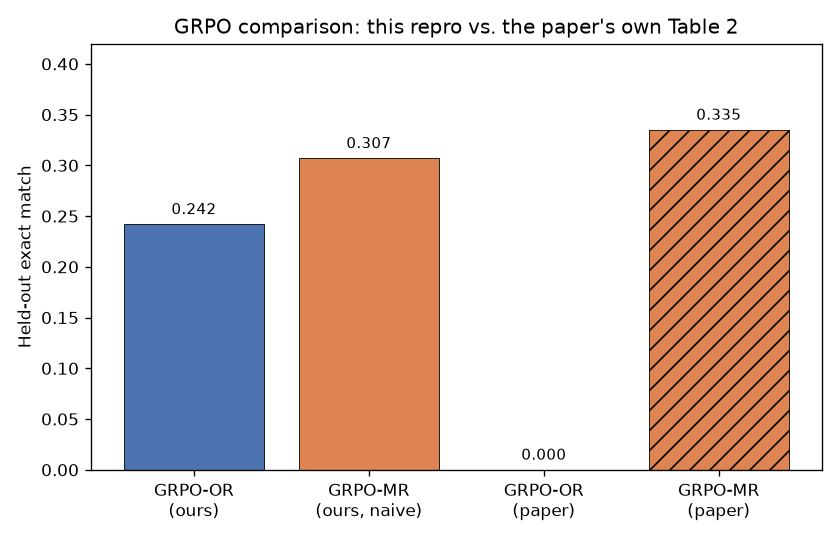
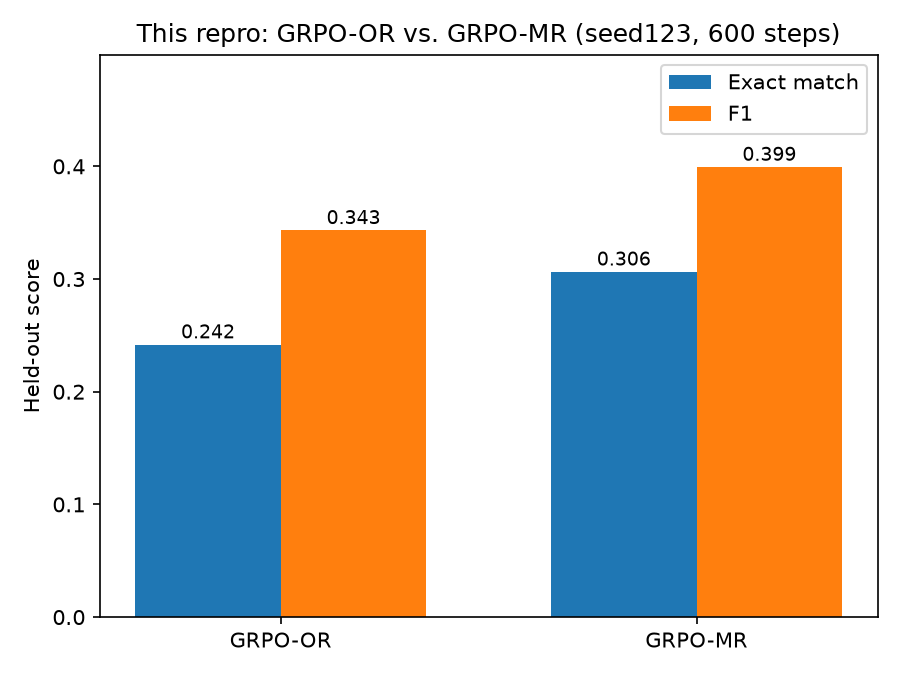
README: fix two stale result charts, replace unanchored retrieval-fraction number with a trend, sharpen the "adapted from the paper" framing
Two real bugs found by checking committed images against the actual data, not just the text:
held_out_em_f1_comparison.png still showed the paper's own numbers hatched alongside ours
(mislabeled as Table 2 -- it's Table 5), the exact unfair comparison already dropped from the
text; tool_call_frequency.png didn't match the real seed123/600steps trackio curves (verified
directly -- GRPO-OR really ends near ~1.0 calls/completion, GRPO-MR near ~2.25, roughly the
reverse of what the stale chart showed). Both regenerated from source data.

Dropped the standalone "retrieval_fraction: n/a / 0.528" table row -- a number with nothing to
compare against tells the reader nothing. Replaced with a training-curve chart showing it climb
toward the corpus's real ~80% ceiling (not 1.0, since ~20% of gold titles aren't in the wiki-18
snapshot), and added the tool-call-frequency chart to back up the "searches more, not less" claim
that was previously bare text.

Reworded Result 4 and added a third "Key learnings" bullet to foreground the noticed-a-problem/
adapted-around-it narrative explicitly, and tightened the F1 definition to name precision/recall
directly instead of just "word-overlap partial credit."

diff --git a/README.md b/README.md
@@ -39,7 +39,12 @@ GRPO's baseline design can't use an intermediate signal even if you hand it one:
 advantage per trajectory (Eq. 4 in the paper) and applies that identical value to every token in
 every turn. A sharp search followed by a garbled answer, and a lazy search followed by a lucky
 guess get scored no differently turn-by-turn — GRPO can't isolate which turn actually earned the
-credit.
+credit. That's true no matter *where* in the trajectory you attach a bonus reward — GRPO only
+ever sees one number per trajectory, so a bonus placed mid-episode still just gets folded into
+that same number by the time training sees it. Actually using *where* a reward happened requires
+a critic that can evaluate any point in a trajectory on its own — which is what PPO has and GRPO
+doesn't, and why the last two approaches below switch algorithms instead of just rearranging the
+reward within GRPO.
 
 This repo compares four ways to address it, in increasing order of how directly they solve it:
 
@@ -90,6 +95,7 @@ flowchart LR
     S3 --> D3
     D3 -- answer --> A3(["Final answer"])
     A3 ==> R3{{"One score:<br/>exact-match + F1"}}
+    R3 -.->|"critic estimates value<br/>token-by-token (GAE)"| C3(("Critic"))
 ```
 
 ### Turn-Level Credit Assignment (MT-PPO)
@@ -99,9 +105,9 @@ flowchart LR
     Q4(["Question"]) --> D4{"Search again,<br/>or answer?"}
     D4 -- search --> S4["Search"]
     S4 --> D4
-    S4 -.-> R4a{{"Search turn's<br/>own credit"}}
+    S4 -.->|"+bonus if real<br/>supporting passage"| R4a{{"Search turn's<br/>own credit"}}
     D4 -- answer --> A4(["Final answer"])
-    A4 -.-> R4b{{"Answer turn's<br/>own credit"}}
+    A4 ==> R4b{{"Answer turn's own credit:<br/>exact-match + F1"}}
     R4b -.->|"critic sends credit<br/>backward (GAE)"| R4a
 ```
 
@@ -114,6 +120,8 @@ flowchart LR
 2. GRPO is more fragile to careless reward-shaping than it looks going in: with no value function
    to fall back on, a whole batch of attempts can share one blind spot and collapse together
    (Result 3).
+3. We spotted a specific collapse mode in the paper's own baseline before ever training, and
+   adapted this repo's reward around it (Result 4).
 
 ### 1. What's actually being measured
 
@@ -123,11 +131,14 @@ producing a final answer. Three metrics track different things:
 
 - **Exact match (EM)** — did the agent's final answer literally match an accepted answer string?
   Strict: "Barack Obama" ≠ "Obama."
-- **F1** — word-overlap partial credit (the standard SQuAD-style scoring paper QA benchmarks use)
-  for answers that are close but not verbatim.
+- **F1** — the standard SQuAD-style score QA benchmarks use: the harmonic mean of word-level
+  precision and recall between the predicted and gold answer, giving partial credit for answers
+  that are close but not verbatim.
 - **Retrieval fraction** — of the real supporting-fact passages actually needed to answer the
-  question, what fraction did the agent's searches surface? Only meaningful for merged reward,
-  since that's the only condition whose reward depends on it.
+  question, what fraction did the agent's searches surface? Only tracked for merged reward, since
+  that's the only condition whose reward depends on it. Its ceiling isn't 1.0: about 20% of
+  HotpotQA's gold passage titles simply aren't in this repo's Wikipedia snapshot (confirmed by
+  directly scanning it — see CLAUDE.md), so even perfect retrieval tops out around ~0.80.
 
 ### 2. Merged reward (`GRPO-MR`) wins
 
@@ -137,13 +148,21 @@ producing a final answer. Three metrics track different things:
 |---|---|---|
 | Exact match | 0.242 | **0.307** |
 | F1 | 0.343 | **0.399** |
-| Retrieval fraction | n/a | 0.528 |
 
 *\*"naive" is the paper's own term for this mechanism: a reward bonus summed into one
 trajectory-level scalar, scored by GRPO's standard advantage.*
 
-Open question: under outcome-only reward, this agent searches *more* over training, not less —
-surprising, since nothing in the reward rewards extra searching. Unexplained so far.
+`GRPO-OR` has no retrieval_fraction to compare against — its reward never looks at search
+quality — so the only meaningful comparison for `GRPO-MR`'s retrieval_fraction is against itself
+over time. It climbed steadily over training, closing in on the corpus's own ~80% ceiling:
+
+![GRPO-MR's retrieval_fraction rising over training, against the corpus ceiling](results/retrieval_fraction_trend.png)
+
+Search behavior tells its own story too, and it's still unexplained: under outcome-only reward,
+this agent searches *more* over training, not less — surprising, since nothing in the reward
+rewards extra searching.
+
+![Search calls per completion over training, both conditions](results/tool_call_frequency.png)
 
 <details>
 <summary>Is the EM/F1 win just favorable timing, or does it hold up throughout training?</summary>
@@ -185,15 +204,16 @@ the model something to hold onto instead; outcome reward's plainer signal didn't
 **Takeaway**: a bare penalty with no matching positive incentive is genuinely risky under GRPO —
 more so than under an algorithm with a value function to catch a group sharing one mistake.
 
-### 4. A fix for a shortcoming the paper's own numbers show
+### 4. We spotted a shortcoming in the paper's approach, and adapted around it
 
 The paper's own outcome-only baseline (binary exact-match, no partial credit) collapsed to 0.0 in
-its GRPO case study. That's expected: GRPO has no critic to fall back on, so a group where every
-rollout scores identically — plausible early in training, when nothing's right yet — gives it zero
-gradient to learn from. This repo's outcome-only reward uses F1 partial credit instead, precisely
-to avoid that: even when nobody in a group is exactly right, F1 still gives the group non-identical
-scores to differentiate by. This repro's outcome-only agent did keep learning rather than
-collapsing — consistent with the fix working, though we haven't run a binary-EM-only ablation on
+its GRPO case study. We caught why before ever training a single step: GRPO has no critic to fall
+back on, so a group where every rollout scores identically — plausible early in training, when
+nothing's right yet — gives it zero gradient to learn from. So this repo's outcome-only reward
+uses F1 partial credit instead: even when nobody in a group is exactly right, F1 still gives the
+group non-identical scores to differentiate by. This repro's outcome-only agent did keep learning
+rather than collapsing — consistent with the adaptation working, though we haven't run a
+binary-EM-only ablation on
 our own setup to confirm F1 is actually why.
 
 ## Roadmap